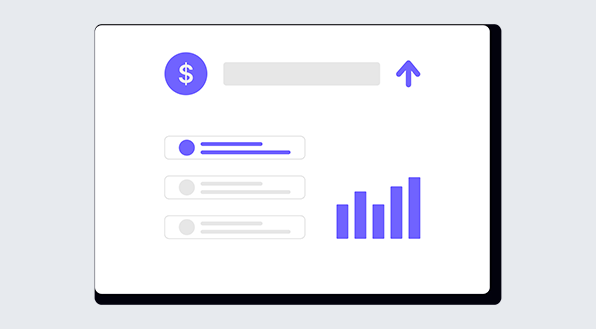
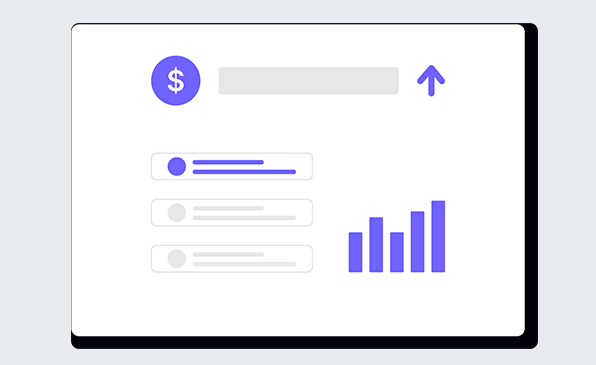
fix(qualidades): arruma as bordas e tamanho da imagem

diff --git a/src/CSS/qualidades.css b/src/CSS/qualidades.css
@@ -1,6 +1,6 @@
 .qualidades__card{
     background-color:   #e7e9ed;
-    border-radius: 15%;
+    border-radius: 30px;
     padding: 20px;
 }
 
